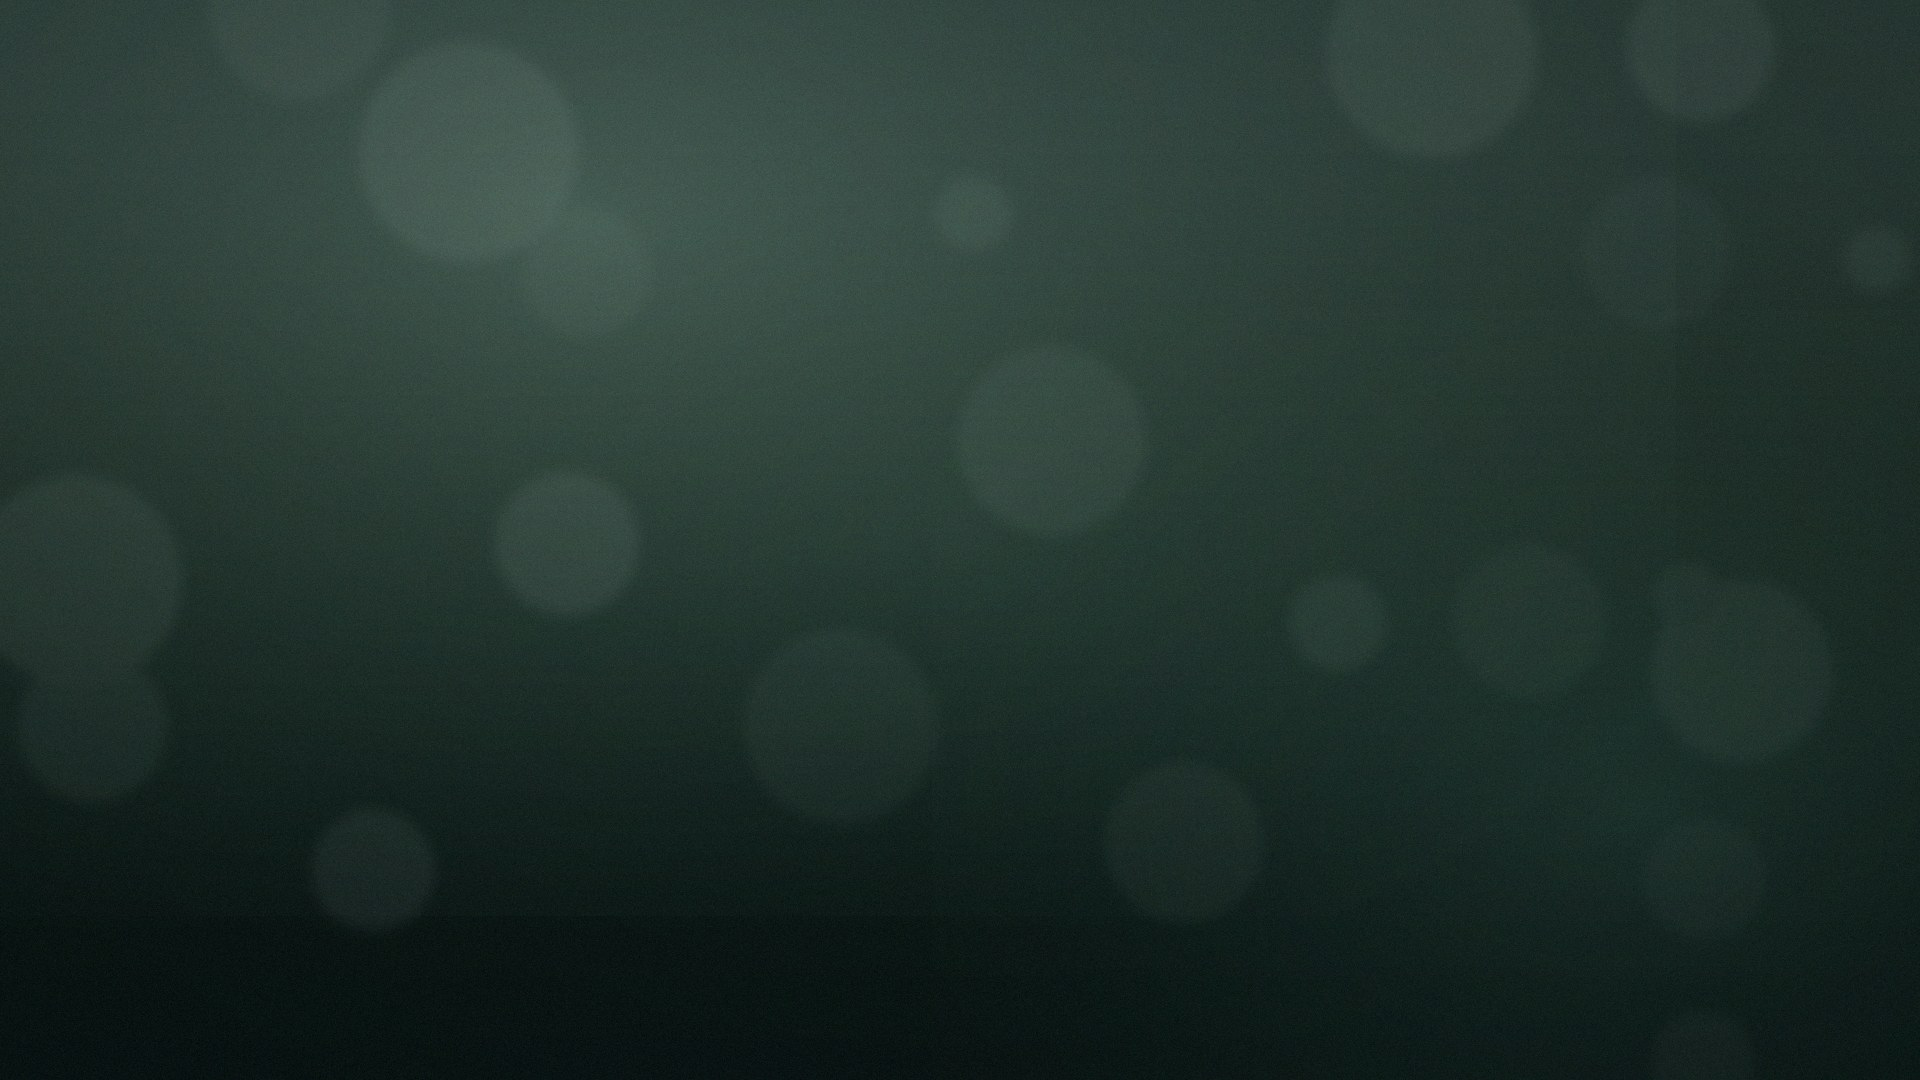
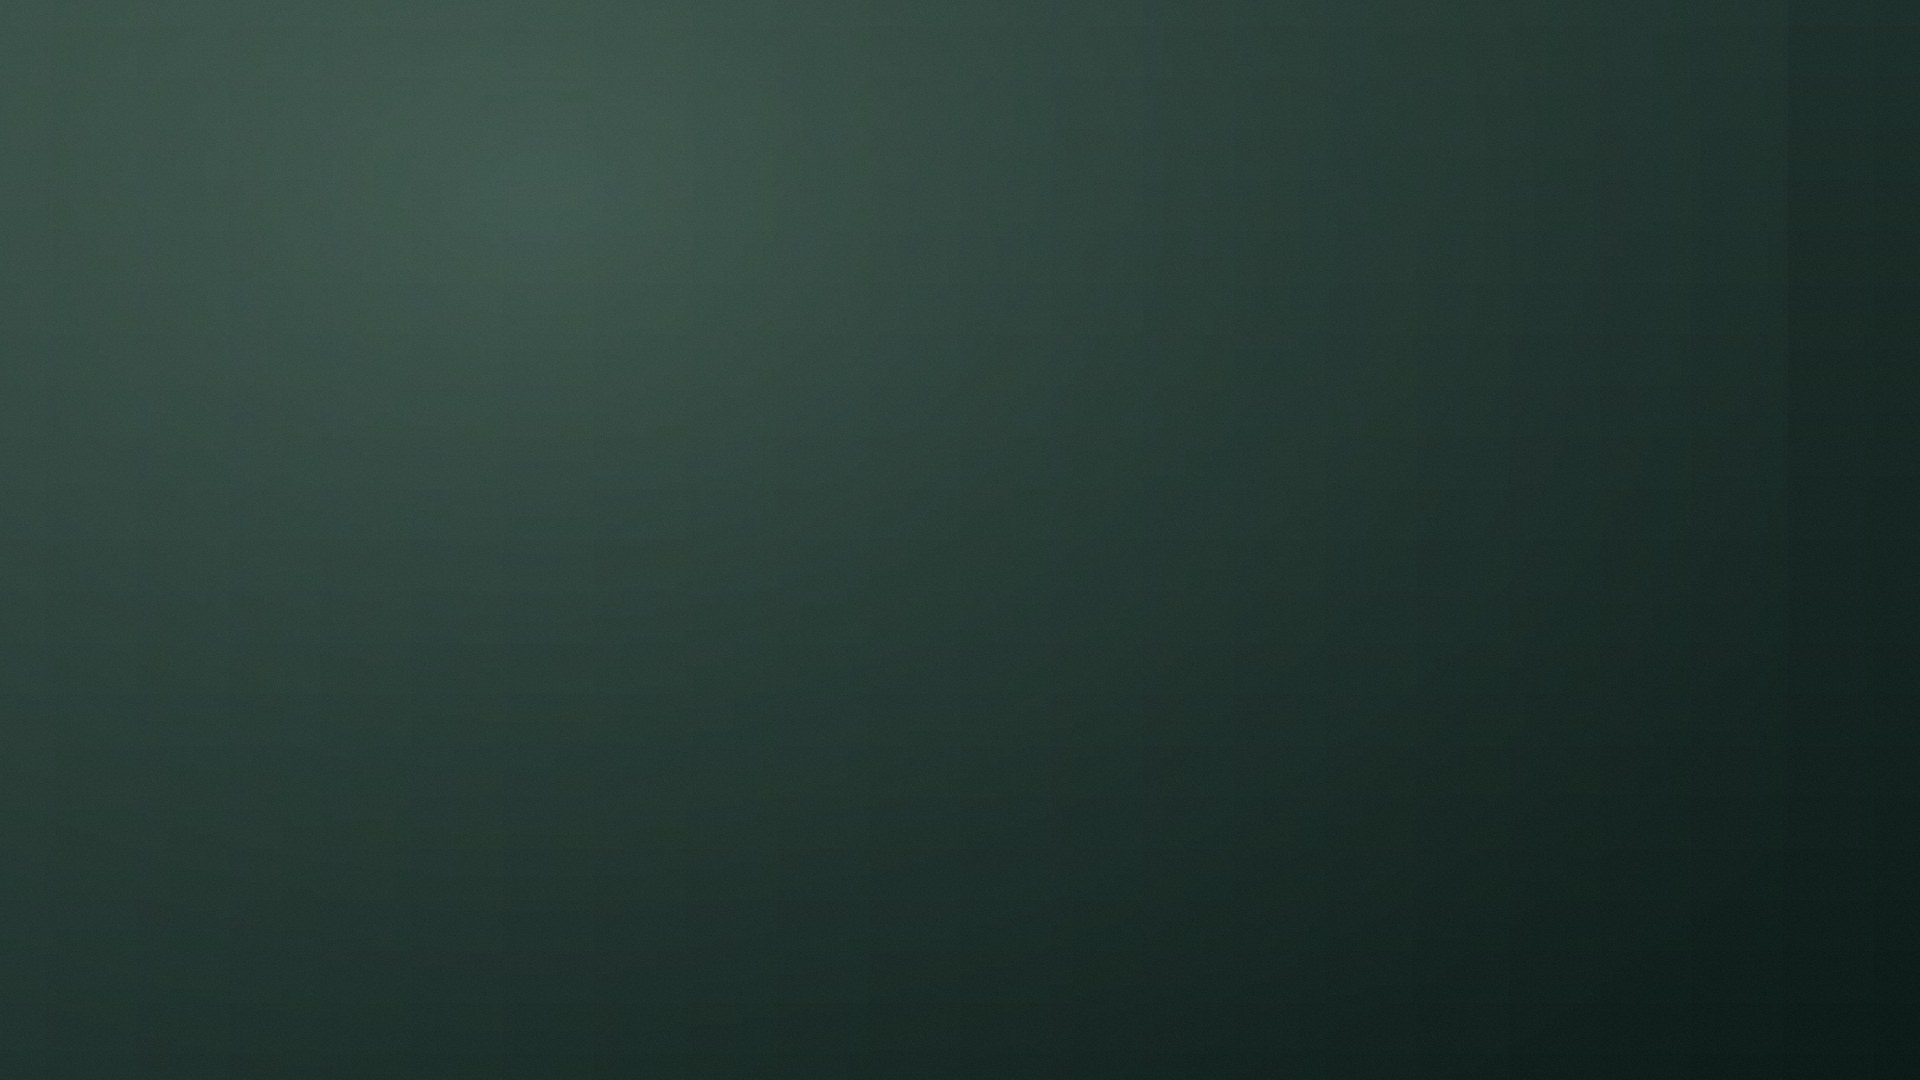
Sfondi pronti: script per le foto vere (elenco con licenze) e lrapps nitido
prepara_sfondi.py scarica le foto elencate in sfondi_foto.json (impronta SHA-256),
le ritaglia a 16:9, scrive grandi e miniature e Documenti/Sfondi - licenze.md.
genera_sfondi.py salta gli id che hanno una foto e lrapps.

Claude-Session: https://claude.ai/code/session_01F5o24Mc7i8YKa5yGj1APHx

Changed region(s): [[0.0, 0.55, 0.5, 1.0], [0.0, 0.4278, 0.0312, 0.4583]]

diff --git a/Strumenti/prepara_sfondi.py b/Strumenti/prepara_sfondi.py
@@ -1,0 +1,203 @@
+#!/usr/bin/env python3
+"""Prepara gli sfondi pronti di WebcamLR dalle foto elencate in Strumenti/sfondi_foto.json.
+
+Ogni foto si scarica dall'URL salvato (o si prende da un file locale con --file id=percorso), si controlla con
+l'impronta SHA-256 salvata, si ritaglia a 16:9 intorno al «centro» indicato e si salva senza metadati. Lo sfondo
+`lrapps` (verde del marchio, #30453E → #0D1B18) si disegna qui, nitido. Gli id con "foto": null non si toccano.
+Alla fine riscrive Documenti/Sfondi - licenze.md dal file JSON. Serve solo Pillow (python3 -m pip install pillow).
+
+    python3 Strumenti/prepara_sfondi.py                       # tutti
+    python3 Strumenti/prepara_sfondi.py citta lrapps          # solo questi
+    python3 Strumenti/prepara_sfondi.py --file citta=~/Scaricati/foto.jpg
+    python3 Strumenti/prepara_sfondi.py --aggiorna-impronte   # salva nel JSON l'impronta dei file scaricati
+
+Scrive (stesse cartelle di prima, stessi id di SfondiPronti nelle tre implementazioni del protocollo):
+  iPhone/Risorse/Sfondi/<id>.jpg                  1920×1080 JPEG qualità 88
+  Android/app/src/main/assets/sfondi/<id>.jpg     1920×1080
+  Mac/Risorse/Sfondi/<id>.jpg                     320×180 (miniature del menu «Sfondi»)
+  Windows/WebcamLR.App/Assets/Sfondi/<id>.jpg     320×180
+
+Gli originali scaricati restano in ~/.cache/webcamlr-sfondi (fuori dalla repository).
+"""
+
+import hashlib
+import io
+import json
+import random
+import sys
+import urllib.request
+from pathlib import Path
+
+from PIL import Image, ImageChops, ImageOps
+
+RADICE = Path(__file__).resolve().parent.parent
+ELENCO = RADICE / "Strumenti/sfondi_foto.json"
+LICENZE = RADICE / "Documenti/Sfondi - licenze.md"
+CACHE = Path.home() / ".cache/webcamlr-sfondi"
+L, A = 1920, 1080
+MINIATURA = (320, 180)
+QUALITA = 88
+AGENTE = "WebcamLR-prepara-sfondi/1.0 (script per gli sfondi di un'app; Python urllib)"
+
+GRANDI = [RADICE / "iPhone/Risorse/Sfondi", RADICE / "Android/app/src/main/assets/sfondi"]
+PICCOLE = [RADICE / "Mac/Risorse/Sfondi", RADICE / "Windows/WebcamLR.App/Assets/Sfondi"]
+
+
+# ---------------------------------------------------------------------------------------------- foto
+
+def impronta(dati):
+    return hashlib.sha256(dati).hexdigest()
+
+
+def scarica(identificativo, foto):
+    CACHE.mkdir(parents=True, exist_ok=True)
+    nome = foto["file"].rsplit("/", 1)[-1].split("?", 1)[0] or "foto.jpg"
+    copia = CACHE / f"{identificativo}-{nome}"
+    if copia.exists():
+        return copia.read_bytes()
+    richiesta = urllib.request.Request(foto["file"], headers={"User-Agent": AGENTE})
+    with urllib.request.urlopen(richiesta, timeout=60) as risposta:
+        dati = risposta.read()
+    copia.write_bytes(dati)
+    return dati
+
+
+def ritaglia(img, centro):
+    """Ritaglio 16:9 il più grande possibile, spostato verso «centro» (frazioni 0–1), poi 1920×1080."""
+    img = ImageOps.exif_transpose(img).convert("RGB")
+    w, h = img.size
+    if w / h > L / A:
+        cw, ch = round(h * L / A), h
+    else:
+        cw, ch = w, round(w * A / L)
+    cx, cy = centro
+    x = min(max(round(cx * w - cw / 2), 0), w - cw)
+    y = min(max(round(cy * h - ch / 2), 0), h - ch)
+    img = img.crop((x, y, x + cw, y + ch))
+    if cw < L:
+        print(f"  attenzione: la foto è più piccola di {L}×{A} ({cw}×{ch}), si ingrandisce", file=sys.stderr)
+    return img.resize((L, A), Image.LANCZOS)
+
+
+# ---------------------------------------------------------------------------------------------- lrapps
+
+def lrapps():
+    """Verde WebcamLR, nitido: sfumatura diagonale del marchio (#30453E in alto a sinistra → #0D1B18 in basso a
+    destra) con una luce salvia larga e morbida dall'alto a sinistra. Nessuna sfocatura, nessun disegno."""
+    alto, basso, salvia = (0x30, 0x45, 0x3E), (0x0D, 0x1B, 0x18), (0x5D, 0x7A, 0x6C)
+    # Sfumatura lineare a 2×2 allargata: bilineare = diagonale perfettamente liscia.
+    angoli = Image.new("RGB", (2, 2))
+    mezzo = tuple(round((a + b) / 2) for a, b in zip(alto, basso))
+    angoli.putdata([alto, mezzo, mezzo, basso])
+    img = angoli.resize((L, A), Image.BILINEAR, box=(0.5, 0.5, 1.5, 1.5))
+    # Luce: gradiente radiale di Pillow (256×256), curva morbida, allargato a ellisse.
+    radiale = Image.radial_gradient("L").point(lambda v: round(255 * max(0.0, 1 - v / 255) ** 2.0 * 0.32))
+    alone = Image.new("L", (L, A), 0)
+    rx, ry = 1250, 900
+    alone.paste(radiale.resize((2 * rx, 2 * ry), Image.BICUBIC), (round(L * 0.28) - rx, round(A * 0.18) - ry))
+    luce = Image.composite(Image.new("RGB", (L, A), salvia), Image.new("RGB", (L, A), (0, 0, 0)), alone)
+    img = ImageChops.screen(img, luce)
+    # Una grana lievissima (±1–2 livelli) evita le bande della sfumatura dopo il JPEG.
+    # Con un seme fisso (non effect_noise, che non ne accetta uno): lo stesso file a ogni esecuzione.
+    rnd = random.Random(97)
+    tessera = Image.new("L", (256, 256))
+    tessera.putdata([max(0, min(255, round(rnd.gauss(128, 1.5)))) for _ in range(256 * 256)])
+    rumore = Image.new("L", (L, A))
+    for x in range(0, L, 256):
+        for y in range(0, A, 256):
+            rumore.paste(tessera, (x, y))
+    return ImageChops.add(img, Image.merge("RGB", [rumore] * 3), scale=1.0, offset=-128)
+
+
+# ---------------------------------------------------------------------------------------------- uscita
+
+def salva(identificativo, img):
+    assert img.size == (L, A), (identificativo, img.size)
+    for cartella in GRANDI:
+        cartella.mkdir(parents=True, exist_ok=True)
+        img.save(cartella / f"{identificativo}.jpg", quality=QUALITA, optimize=True, progressive=True)
+    piccola = img.resize(MINIATURA, Image.LANCZOS)
+    for cartella in PICCOLE:
+        cartella.mkdir(parents=True, exist_ok=True)
+        piccola.save(cartella / f"{identificativo}.jpg", quality=QUALITA, optimize=True)
+
+
+def scrivi_licenze(sfondi):
+    righe = [
+        "# Sfondi pronti · licenze",
+        "",
+        "Scritto da `Strumenti/prepara_sfondi.py` a partire da `Strumenti/sfondi_foto.json`: non modificarlo a mano.",
+        "Regola: solo foto in pubblico dominio o CC0 (nessuna attribuzione obbligatoria, uso commerciale permesso, anche",
+        "dentro un'app a pagamento), senza persone riconoscibili, marchi od opere d'arte in primo piano.",
+        "",
+    ]
+    for voce in sfondi:
+        righe.append(f"## `{voce['id']}`")
+        righe.append("")
+        if voce.get("disegnato"):
+            righe.append("Disegnato da `Strumenti/prepara_sfondi.py` (sfumatura del marchio LR Apps): nessuna licenza di terzi.")
+        elif voce.get("foto"):
+            f = voce["foto"]
+            righe += [
+                f"- Titolo: {f['titolo']}",
+                f"- Autore: {f['autore']}",
+                f"- Pagina: <{f['pagina']}>",
+                f"- File: <{f['file']}>",
+                f"- Licenza: {f['licenza']} — «{f['citazione']}»",
+                f"- Controllata e scaricata il: {f['controllata']}",
+            ]
+        else:
+            righe.append("Ancora la scena disegnata da `Strumenti/genera_sfondi.py` (nessuna foto di terzi): foto da scegliere.")
+        righe.append("")
+    LICENZE.write_text("\n".join(righe), encoding="utf-8")
+
+
+def main(argomenti):
+    locali, scelte, aggiorna = {}, set(), False
+    i = 0
+    while i < len(argomenti):
+        a = argomenti[i]
+        if a == "--file":
+            identificativo, percorso = argomenti[i + 1].split("=", 1)
+            locali[identificativo] = Path(percorso).expanduser()
+            scelte.add(identificativo)
+            i += 1
+        elif a == "--aggiorna-impronte":
+            aggiorna = True
+        else:
+            scelte.add(a)
+        i += 1
+
+    elenco = json.loads(ELENCO.read_text(encoding="utf-8"))
+    cambiato = False
+    for voce in elenco["sfondi"]:
+        identificativo = voce["id"]
+        if scelte and identificativo not in scelte:
+            continue
+        if voce.get("disegnato"):
+            salva(identificativo, lrapps())
+            print(f"{identificativo}: disegnato")
+            continue
+        foto = voce.get("foto")
+        if not foto:
+            print(f"{identificativo}: nessuna foto nell'elenco, resta com'è")
+            continue
+        dati = locali[identificativo].read_bytes() if identificativo in locali else scarica(identificativo, foto)
+        attesa = foto.get("sha256")
+        if attesa and attesa != impronta(dati):
+            sys.exit(f"{identificativo}: l'impronta del file non è quella salvata ({impronta(dati)}): il file è cambiato?")
+        if not attesa:
+            if not aggiorna:
+                sys.exit(f"{identificativo}: manca sha256 nell'elenco (riprova con --aggiorna-impronte)")
+            foto["sha256"] = impronta(dati)
+            cambiato = True
+        salva(identificativo, ritaglia(Image.open(io.BytesIO(dati)), foto.get("centro", [0.5, 0.5])))
+        print(f"{identificativo}: foto preparata")
+
+    if cambiato:
+        ELENCO.write_text(json.dumps(elenco, ensure_ascii=False, indent=2) + "\n", encoding="utf-8")
+    scrivi_licenze(elenco["sfondi"])
+
+
+if __name__ == "__main__":
+    main(sys.argv[1:])

diff --git a/Strumenti/genera_sfondi.py b/Strumenti/genera_sfondi.py
@@ -15,6 +15,9 @@ Scrive:
   Windows/WebcamLR.App/Assets/Sfondi/<id>.jpg     320×180
 
 Gli id sono quelli di SfondiPronti nelle tre implementazioni del protocollo, nello stesso ordine.
+
+Sostituito man mano da Strumenti/prepara_sfondi.py (foto vere nitide, elencate in Strumenti/sfondi_foto.json):
+gli id che hanno una foto lì, e `lrapps`, qui si saltano. Quando tutti hanno una foto questo script si può togliere.
 """
 
 import math
@@ -502,12 +505,23 @@ SCENE = [
 ]
 
 
+def gia_foto():
+    """Gli id che prepara_sfondi.py prepara (foto o lrapps nitido): qui non si sovrascrivono mai."""
+    import json
+    elenco = json.loads((RADICE / "Strumenti/sfondi_foto.json").read_text(encoding="utf-8"))
+    return {v["id"] for v in elenco["sfondi"] if v.get("foto") or v.get("disegnato")}
+
+
 def main(argomenti):
     scelte = set(argomenti)
+    saltati = gia_foto()
     for cartella in GRANDI + PICCOLE:
         cartella.mkdir(parents=True, exist_ok=True)
     for indice, (identificativo, scena) in enumerate(SCENE):
         if scelte and identificativo not in scelte:
+            continue
+        if identificativo in saltati:
+            print(f"{identificativo}: lo prepara Strumenti/prepara_sfondi.py, saltato")
             continue
         img = scena().convert("RGB")
         assert img.size == (L, A), (identificativo, img.size)

diff --git a/Documenti/Sfondi - licenze.md b/Documenti/Sfondi - licenze.md
@@ -1,0 +1,37 @@
+# Sfondi pronti · licenze
+
+Scritto da `Strumenti/prepara_sfondi.py` a partire da `Strumenti/sfondi_foto.json`: non modificarlo a mano.
+Regola: solo foto in pubblico dominio o CC0 (nessuna attribuzione obbligatoria, uso commerciale permesso, anche
+dentro un'app a pagamento), senza persone riconoscibili, marchi od opere d'arte in primo piano.
+
+## `ufficio`
+
+Ancora la scena disegnata da `Strumenti/genera_sfondi.py` (nessuna foto di terzi): foto da scegliere.
+
+## `libreria`
+
+Ancora la scena disegnata da `Strumenti/genera_sfondi.py` (nessuna foto di terzi): foto da scegliere.
+
+## `soggiorno`
+
+Ancora la scena disegnata da `Strumenti/genera_sfondi.py` (nessuna foto di terzi): foto da scegliere.
+
+## `studio`
+
+Ancora la scena disegnata da `Strumenti/genera_sfondi.py` (nessuna foto di terzi): foto da scegliere.
+
+## `citta`
+
+Ancora la scena disegnata da `Strumenti/genera_sfondi.py` (nessuna foto di terzi): foto da scegliere.
+
+## `cemento`
+
+Ancora la scena disegnata da `Strumenti/genera_sfondi.py` (nessuna foto di terzi): foto da scegliere.
+
+## `piante`
+
+Ancora la scena disegnata da `Strumenti/genera_sfondi.py` (nessuna foto di terzi): foto da scegliere.
+
+## `lrapps`
+
+Disegnato da `Strumenti/prepara_sfondi.py` (sfumatura del marchio LR Apps): nessuna licenza di terzi.
